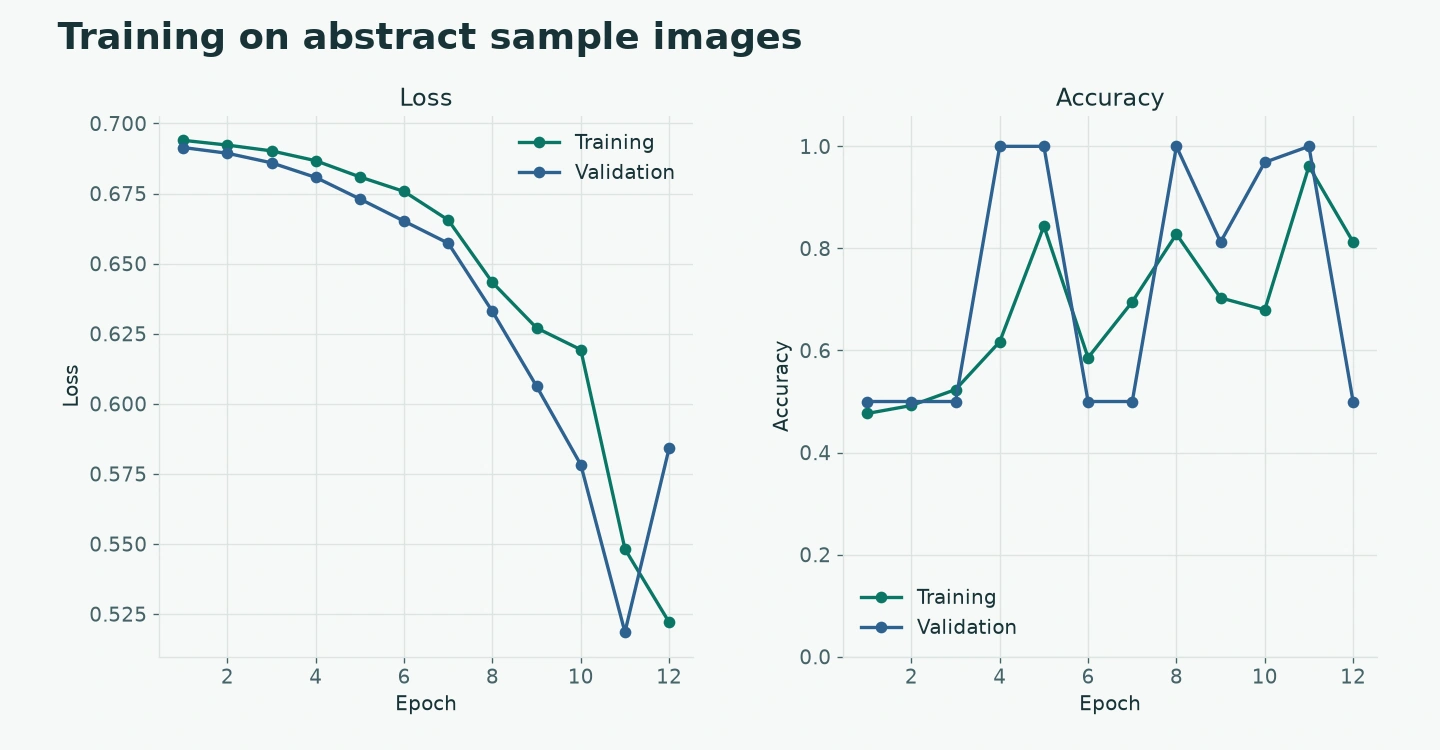
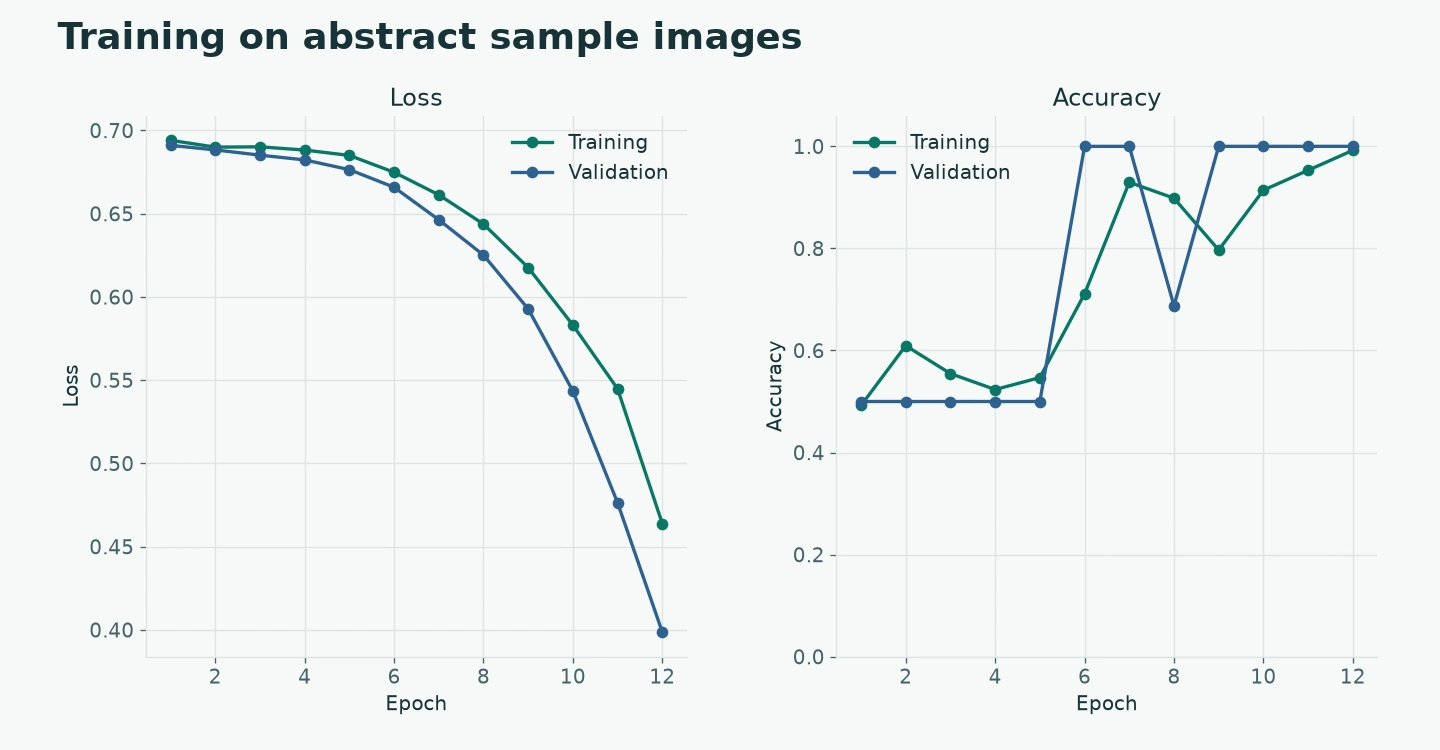
Run portfolio Python projects with period libraries

diff --git a/public/work/brain-mri-classification.html b/public/work/brain-mri-classification.html
@@ -46,7 +46,7 @@
           <section class="project-stage">
             <h2 id="preprocessing-and-augmentation">Preprocessing and augmentation</h2>
             <div class="project-stage-copy">
-              <p>The classifier takes grayscale images resized to a fixed shape. It scales pixel values before the first convolution and applies small shifts and rotations during training. I use those transforms to vary image placement and orientation while keeping the label fixed.</p>
+              <p>The Keras image generator resizes each grayscale image and scales its pixel values. During training, it applies small shifts and rotations to vary image placement and orientation while keeping the label fixed.</p>
               <p>Validation and test images go through the same resizing and scaling. They skip the random transforms. For MRI data, I would keep all slices from the same person together when splitting the dataset so nearby slices cannot end up on both sides of the evaluation.</p>
             </div>
           </section>
@@ -66,12 +66,12 @@
           <section class="project-stage">
             <h2 id="run-the-classifier">Run the classifier</h2>
             <div class="project-stage-copy">
-              <p>Use <code>demo-data</code> to generate the example images, <code>train</code> to fit and evaluate the CNN, and <code>predict</code> to classify one image with the saved model.</p>
-              <p><a href="/code/brain-mri-classification/mri_classifier.py" download>Download Python script</a> · <a href="/code/brain-mri-classification/requirements.txt" download>Requirements</a> · <a href="/code/brain-mri-classification/README.txt">Setup and usage</a></p>
+              <p>Use Python 3.9 and TensorFlow 2.7. Run <code>demo-data</code> to generate the example images, <code>train</code> to fit and save the CNN, and <code>predict</code> to classify one image with the saved HDF5 model.</p>
+              <p><a href="/code/brain-mri-classification.zip" download>Download project</a> · <a href="/code/brain-mri-classification/mri_classifier.py">Python source</a> · <a href="/code/brain-mri-classification/README.txt">Setup and usage</a></p>
             </div>
           </section>
         </article>
-        <p class="project-tools">Tools &amp; methods · Python · TensorFlow · Keras · Image preprocessing</p>
+        <p class="project-tools">Tools &amp; methods · Python 3.9 · TensorFlow 2.7 · Keras · Image preprocessing</p>
         <nav class="detail-pagination" aria-label="Project navigation">
           <a href="/work/hands-free-cursor-control" rel="prev">
             <span class="detail-pagination-label">← Previous project</span>

diff --git a/public/work/hands-free-cursor-control.html b/public/work/hands-free-cursor-control.html
@@ -60,12 +60,12 @@
           <section class="project-stage">
             <h2 id="run-the-prototype">Run the prototype</h2>
             <div class="project-stage-copy">
-              <p>Run the script with a webcam to move a dot in the preview. Press H for hand input or E for eye input. Start it with <code>--move</code> and use Space in the preview when you want the script to move the desktop cursor.</p>
-              <p><a href="/code/hands-free-cursor/cursor_control.py" download>Download Python script</a> · <a href="/code/hands-free-cursor/requirements.txt" download>Requirements</a> · <a href="/code/hands-free-cursor/README.txt">Setup and usage</a></p>
+              <p>Run the project with Python 3.9 and a webcam. Press H for hand input or E for eye input. Use <code>--video</code> to try a local recording in preview. With a live camera, start with <code>--move</code> and press Space to enable desktop cursor control.</p>
+              <p><a href="/code/hands-free-cursor-control.zip" download>Download project</a> · <a href="/code/hands-free-cursor/cursor_control.py">Python source</a> · <a href="/code/hands-free-cursor/README.txt">Setup and usage</a></p>
             </div>
           </section>
         </article>
-        <p class="project-tools">Tools &amp; methods · Python · OpenCV · MediaPipe · PyAutoGUI</p>
+        <p class="project-tools">Tools &amp; methods · Python 3.9 · OpenCV 4.8 · MediaPipe 0.10.9 · PyAutoGUI</p>
         <nav class="detail-pagination" aria-label="Project navigation">
           <a href="/work/easy-access-wallet" rel="prev">
             <span class="detail-pagination-label">← Previous project</span>

diff --git a/public/code/brain-mri-classification/mri_classifier.py b/public/code/brain-mri-classification/mri_classifier.py
@@ -1,5 +1,3 @@
-"""Train a grayscale image classifier and apply it to a single image."""
-
 import argparse
 import json
 import random
@@ -10,7 +8,7 @@ IMAGE_SIZE = (96, 96)
 SEED = 42
 
 
-def load_images(tf, root, split, class_names, batch_size):
+def load_images(generator, root, split, class_names, batch_size):
     path = root / split
     if not path.is_dir():
         raise ValueError(f"Missing directory: {path}")
@@ -19,29 +17,21 @@ def load_images(tf, root, split, class_names, batch_size):
     if folders != class_names:
         raise ValueError(f"{path} must contain the same class folders as the training split.")
 
-    dataset = tf.keras.utils.image_dataset_from_directory(
-        path, class_names=class_names, color_mode="grayscale", image_size=IMAGE_SIZE,
-        batch_size=batch_size, shuffle=(split == "train"), seed=SEED,
+    images = generator.flow_from_directory(
+        str(path), classes=class_names, color_mode="grayscale", target_size=IMAGE_SIZE,
+        class_mode="sparse", batch_size=batch_size, shuffle=(split == "train"),
+        interpolation="bilinear", seed=SEED,
     )
-    if not dataset.file_paths:
-        raise ValueError(f"No supported images in {path}")
-    for name in class_names:
-        if not any(Path(file).is_relative_to(path / name) for file in dataset.file_paths):
+    for index, name in enumerate(class_names):
+        if index not in images.classes:
             raise ValueError(f"No supported images in {path / name}")
-
-    options = tf.data.Options()
-    options.threading.private_threadpool_size = 2
-    return dataset.with_options(options).prefetch(1)
+    return images
 
 
 def build_model(tf, classes):
     layers = tf.keras.layers
     model = tf.keras.Sequential([
         layers.Input(shape=(*IMAGE_SIZE, 1)),
-        layers.Rescaling(1.0 / 255),
-        # Keras applies these layers during training only.
-        layers.RandomRotation(0.03, fill_mode="reflect", seed=SEED),
-        layers.RandomTranslation(0.04, 0.04, fill_mode="reflect", seed=SEED + 1),
         layers.Conv2D(16, 3, padding="same", activation="relu"),
         layers.MaxPooling2D(),
         layers.Conv2D(32, 3, padding="same", activation="relu"),
@@ -56,7 +46,9 @@ def build_model(tf, classes):
 
 
 def train(dataset, output, epochs, batch_size):
+    import numpy as np
     import tensorflow as tf
+    from tensorflow.keras.preprocessing.image import ImageDataGenerator
 
     dataset = dataset.resolve()
     if output.exists():
@@ -68,10 +60,17 @@ def train(dataset, output, epochs, batch_size):
     if len(class_names) < 2:
         raise ValueError("The training split needs at least two class folders.")
 
-    tf.keras.utils.set_random_seed(SEED)
-    train_images = load_images(tf, dataset, "train", class_names, batch_size)
-    val_images = load_images(tf, dataset, "val", class_names, batch_size)
-    test_images = load_images(tf, dataset, "test", class_names, batch_size)
+    random.seed(SEED)
+    np.random.seed(SEED)
+    tf.random.set_seed(SEED)
+    training_data = ImageDataGenerator(
+        rescale=1.0 / 255, rotation_range=11, width_shift_range=0.04,
+        height_shift_range=0.04, fill_mode="reflect",
+    )
+    evaluation_data = ImageDataGenerator(rescale=1.0 / 255)
+    train_images = load_images(training_data, dataset, "train", class_names, batch_size)
+    val_images = load_images(evaluation_data, dataset, "val", class_names, batch_size)
+    test_images = load_images(evaluation_data, dataset, "test", class_names, batch_size)
 
     model = build_model(tf, len(class_names))
     history = model.fit(
@@ -82,7 +81,7 @@ def train(dataset, output, epochs, batch_size):
     )
     scores = model.evaluate(test_images, return_dict=True)
     output.mkdir(parents=True)
-    model.save(output / "model.keras")
+    model.save(str(output / "model.h5"), include_optimizer=False)
     (output / "classes.json").write_text(json.dumps(class_names, indent=2) + "\n", encoding="utf-8")
     report = {"epochs": history.history, "test": scores}
     (output / "training.json").write_text(json.dumps(report, indent=2) + "\n", encoding="utf-8")
@@ -91,13 +90,14 @@ def train(dataset, output, epochs, batch_size):
 
 def predict(output, image_file):
     import tensorflow as tf
+    from tensorflow.keras.preprocessing.image import img_to_array, load_img
 
-    model = tf.keras.models.load_model(output / "model.keras", compile=False)
+    model = tf.keras.models.load_model(str(output / "model.h5"), compile=False)
     labels = json.loads((output / "classes.json").read_text(encoding="utf-8"))
-    image = tf.keras.utils.load_img(
-        image_file, color_mode="grayscale", target_size=IMAGE_SIZE, interpolation="bilinear",
+    image = load_img(
+        str(image_file), color_mode="grayscale", target_size=IMAGE_SIZE, interpolation="bilinear",
     )
-    batch = tf.expand_dims(tf.keras.utils.img_to_array(image), axis=0)
+    batch = tf.expand_dims(img_to_array(image) / 255.0, axis=0)
     scores = model(batch, training=False).numpy()[0]
     if len(labels) != len(scores):
         raise ValueError("The saved labels do not match the model output.")
@@ -111,7 +111,6 @@ def make_demo(root):
     if root.exists():
         raise ValueError(f"Choose an unused demo directory: {root}")
     rng = random.Random(SEED)
-    # These abstract patterns exercise the pipeline without using patient data.
     for split, count in (("train", 64), ("val", 16), ("test", 16)):
         for label, size in (("horizontal", (25, 7)), ("vertical", (7, 25))):
             folder = root / split / label
@@ -124,7 +123,7 @@ def make_demo(root):
                 ImageDraw.Draw(image).ellipse(
                     (x - width, y - height, x + width, y + height), fill=rng.randint(170, 235),
                 )
-                image = image.rotate(rng.uniform(-12, 12), resample=Image.Resampling.BILINEAR,
+                image = image.rotate(rng.uniform(-12, 12), resample=Image.BILINEAR,
                                      fillcolor=30).filter(ImageFilter.GaussianBlur(1))
                 image.save(folder / f"{index:03d}.png")
 
@@ -137,7 +136,7 @@ def positive_integer(value):
 
 
 def main():
-    parser = argparse.ArgumentParser(description=__doc__)
+    parser = argparse.ArgumentParser(description="Train a grayscale image classifier and predict labels.")
     commands = parser.add_subparsers(dest="command", required=True)
     demo = commands.add_parser("demo-data", help="Generate abstract sample images")
     demo.add_argument("dataset", type=Path)

diff --git a/public/code/hands-free-cursor/cursor_control.py b/public/code/hands-free-cursor/cursor_control.py
@@ -1,5 +1,3 @@
-"""Move a preview cursor with an index finger or calibrated eye movement."""
-
 import argparse
 from collections import deque
 from math import hypot
@@ -29,7 +27,6 @@ def eye_offset(points, corners, lids, iris, width, height):
     if span < 1:
         return None
 
-    # Use the eye's own horizontal and vertical axes.
     ux, uy = dx / span, dy / span
     upper, lower = (position(index) for index in lids)
     lid_gap = -(lower[0] - upper[0]) * uy + (lower[1] - upper[1]) * ux
@@ -61,7 +58,7 @@ def index_position(points, width, height):
     return tip.x, tip.y
 
 
-def run(camera_index, move_mouse):
+def run(source, move_mouse, mode):
     import cv2
     import mediapipe as mp
 
@@ -73,8 +70,8 @@ def run(camera_index, move_mouse):
             raise RuntimeError("The desktop is too small for cursor control.")
         pyautogui.PAUSE = 0
 
-    camera = cv2.VideoCapture(camera_index)
-    mode = "hand"
+    camera = cv2.VideoCapture(source)
+    from_video = isinstance(source, str)
     armed = False
     position = None
     samples = deque(maxlen=12)
@@ -83,12 +80,18 @@ def run(camera_index, move_mouse):
 
     try:
         if not camera.isOpened():
+            if from_video:
+                raise RuntimeError(f"Could not open video: {source}")
             raise RuntimeError("Could not open the camera. Check permissions and the camera index.")
         with mp.solutions.hands.Hands(max_num_hands=1) as hands, \
                 mp.solutions.face_mesh.FaceMesh(max_num_faces=1, refine_landmarks=True) as face:
+            frame_rate = camera.get(cv2.CAP_PROP_FPS) if from_video else 0
+            frame_delay = max(1, round(1000 / frame_rate)) if frame_rate > 0 else 1
             while True:
                 ok, frame = camera.read()
                 if not ok:
+                    if from_video:
+                        break
                     raise RuntimeError("The camera stopped returning frames.")
 
                 frame = cv2.flip(frame, 1)
@@ -149,9 +152,9 @@ def run(camera_index, move_mouse):
                     cv2.putText(frame, line, (10, y), cv2.FONT_HERSHEY_SIMPLEX, 0.48,
                                 (245, 245, 245), 1, cv2.LINE_AA)
                 cv2.imshow(window, frame)
-                key = cv2.waitKey(1) & 0xFF
+                key = cv2.waitKey(frame_delay) & 0xFF
 
-                if key in (ord("q"), 27) or cv2.getWindowProperty(window, cv2.WND_PROP_VISIBLE) < 1:
+                if key in (ord("q"), 27) or cv2.getWindowProperty(window, cv2.WND_PROP_VISIBLE) == 0:
                     break
                 if key == ord(" ") and move_mouse:
                     armed = not armed
@@ -179,12 +182,17 @@ def run(camera_index, move_mouse):
 
 
 def main():
-    parser = argparse.ArgumentParser(description=__doc__)
-    parser.add_argument("--camera", type=int, default=0, help="Camera index (default: 0)")
+    parser = argparse.ArgumentParser(description="Move a cursor with a finger or with eye movement.")
+    source = parser.add_mutually_exclusive_group()
+    source.add_argument("--camera", type=int, default=0, help="Camera index (default: 0)")
+    source.add_argument("--video", help="Play a local video in the preview window")
+    parser.add_argument("--mode", choices=("hand", "eyes"), default="hand")
     parser.add_argument("--move", action="store_true", help="Allow the Space key to enable desktop movement")
     args = parser.parse_args()
+    if args.video and args.move:
+        parser.error("Desktop pointer control requires a live camera.")
     try:
-        run(args.camera, args.move)
+        run(args.video or args.camera, args.move, args.mode)
     except (RuntimeError, ImportError) as error:
         parser.exit(1, f"{error}\n")
 
